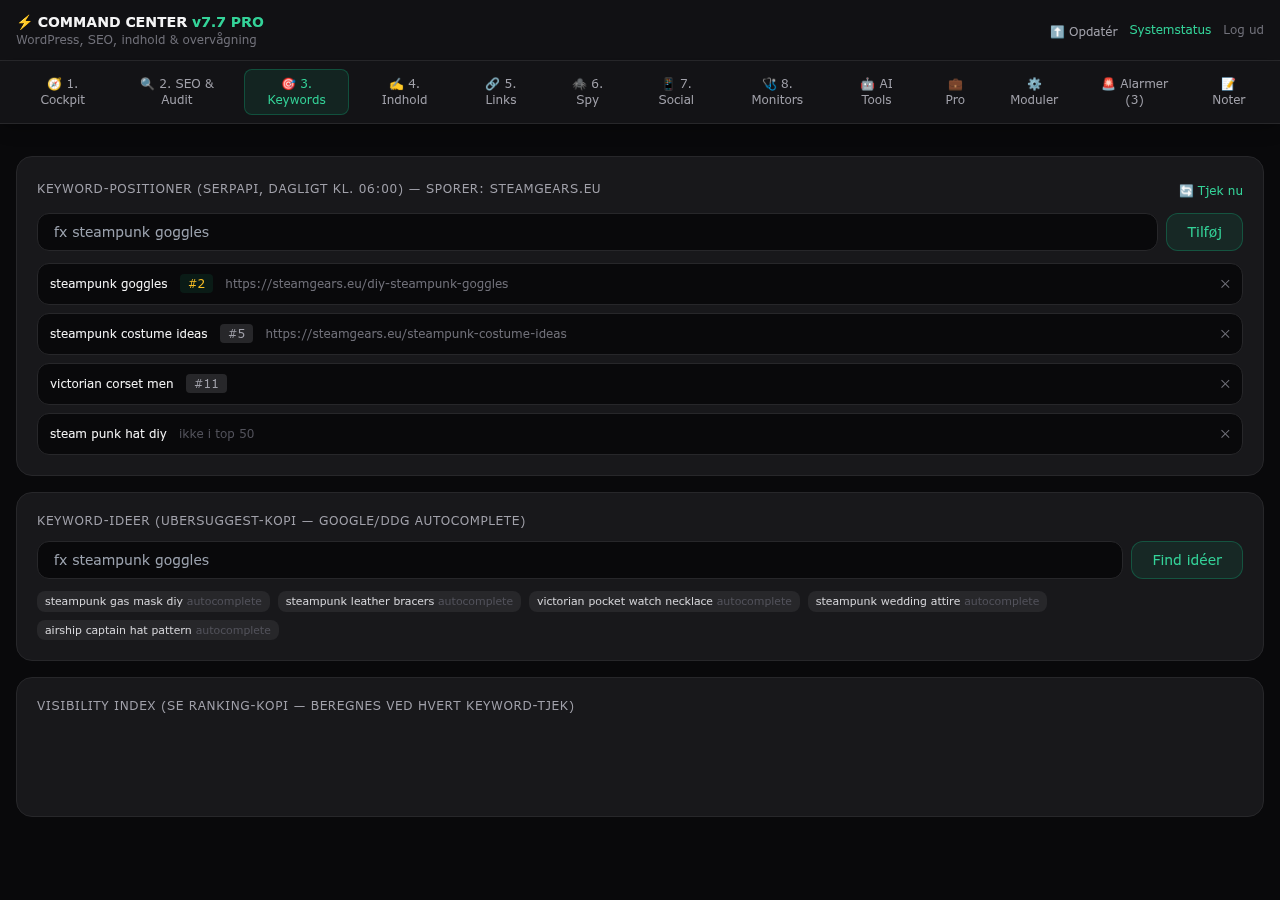
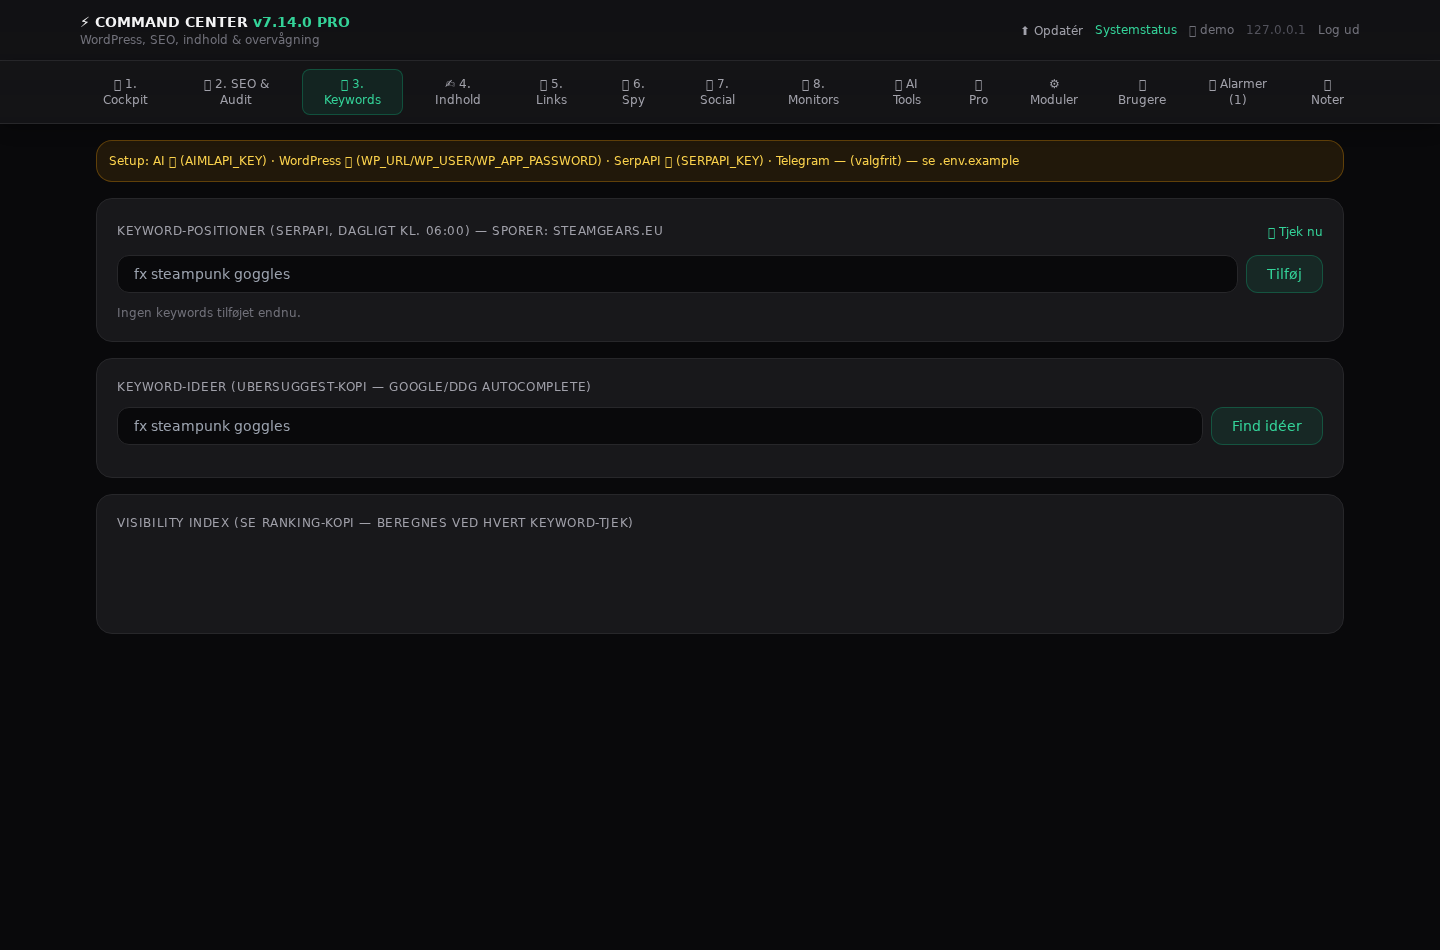
docs: opdater alle screenshots + noter hvorfor headless Chromium crashede
Chromium faldt om paa dashboardet fordi der ikke findes /etc/fonts her:
"FATAL: SkFontMgr_FontConfigInterface.cpp:163 Not implemented" (SIGTRAP).
Det er miljoeet, ikke appen - med FONTCONFIG_FILE pegende paa en fonts.conf
kunne alle 14 faner og login-siden fotograferes, saa docs/img er nu fra den
koerende kode i stedet for v7.8.

Scriptet giver et tip om fontconfig, naar browseren doer paa den maade.

🤖 Generated with Codebuff

diff --git a/scripts/screenshots.py b/scripts/screenshots.py
@@ -175,9 +175,14 @@ def main() -> int:
         print("FEJL: %s" % exc, file=sys.stderr)
         return 1
     except PlaywrightError as exc:
-        print("FEJL: Browseren stoppede under optagelsen: %s" % str(exc).splitlines()[0], file=sys.stderr)
+        detail = str(exc).splitlines()[0]
+        print("FEJL: Browseren stoppede under optagelsen: %s" % detail, file=sys.stderr)
         if written:
             print("%d billede(r) blev skrevet foer fejlen." % len(written), file=sys.stderr)
+        if "has been closed" in detail and not os.environ.get("FONTCONFIG_FILE"):
+            print("Tip: crasher browseren straks paa dashboardet (FATAL: SkFontMgr_FontConfigInterface),"
+                  " mangler der fontconfig. Saet FONTCONFIG_FILE til en fonts.conf med mindst én font.",
+                  file=sys.stderr)
         return 1
 
     print("\n%d billede(r) skrevet til %s" % (len(written), out_dir))

diff --git a/CLAUDE.md b/CLAUDE.md
@@ -151,6 +151,12 @@ kørte grønt på `ed97575`. CI tjekker desuden at alle 17 indlejrede filer i `i
 - Playwright er **ikke** i `requirements.txt` (kun dette script bruger det):
   `pip install playwright && python3 -m playwright install chromium`.
 - Fane-listen i `TABS` skal foelge nav-knapperne i `app/templates/dashboard.html`.
+- Chromium crashede foerst paa dashboardet i denne VM - det er **miljoeet, ikke appen**: der findes
+  intet `/etc/fonts`, saa Skia aborterer med `FATAL: SkFontMgr_FontConfigInterface.cpp:163 Not
+  implemented` (SIGTRAP). Loesning: lav en `fonts.conf` med `<dir>` (DejaVu/Noto) + `<cachedir>` og
+  saet `FONTCONFIG_FILE`/`FONTCONFIG_PATH`. Derefter kan alle 14 faner fotograferes headless.
+- Mangler der en emoji-font i det saet, bliver emoji i UI'et tomme kasser paa billederne. Det er kun
+  kosmetisk - layout og tekst er korrekt.
 
 ### Dokumentation og CI
 - `README.md`, manualen og arkitektur-dokumentet er skrevet om til v7.11; `docs/Command_Center_Install_Script.md`
@@ -210,7 +216,7 @@ springer tjekket over til rene undtagelser.
 - Efter Juno-fjernelsen: ingen GSC-data, og `drift`/`gsc_*`-tabeller kan stadig ligge tomme i en
   eksisterende `center.db` (intet læser eller skriver dem).
 - Systemd-genstartsstien er ikke testet i denne VM (ingen systemd); pidfile-stien er verificeret.
-- `docs/img/`-screenshots er fra v7.8; `python3 scripts/screenshots.py` opdaterer dem (kræver Playwright + Chromium, som ikke er en del af appens requirements).
+- `docs/img/`-screenshots er opdateret med `scripts/screenshots.py` (kræver Playwright + Chromium, som ikke er en del af appens requirements); headless Chromium skal have en `FONTCONFIG_FILE`, se Screenshot-script ovenfor.
 - Opdatering kræver `GITHUB_TOKEN`; et rigtigt tarball-download er ikke afprøvet her.
 
 ## Roadmap (kort — detaljer i `docs/ROADMAP.md`)

diff --git a/README.md b/README.md
@@ -36,8 +36,8 @@ Alt kører på din egen server: dine data, ingen abonnement. Se [docs/ROADMAP.md
 ![Cockpit](docs/img/cc-cockpit.png)
 
 Cockpit med opdaterings-panel og alarmer. Login-siden og alle 14 faner ligger i `docs/img/`
-(`cc-login.png`, `cc-cockpit.png` … `cc-notes.png`); billederne er fra v7.8-UI'et, og
-`python3 scripts/screenshots.py` opdaterer dem til den version du kører — se
+(`cc-login.png`, `cc-cockpit.png` … `cc-notes.png`); billederne er taget med
+`python3 scripts/screenshots.py` mod den kørende app, og samme kommando opdaterer dem — se
 [manualens afsnit om screenshots](docs/Command_Center_Bruger_og_Systemmanual.md#opdater-screenshots).
 
 ## Login & opsætning
@@ -166,4 +166,4 @@ og handoff, `AGENTS.md` er de korte regler for agenter.
 - Dashboardet henter Tailwind, Alpine.js og Chart.js fra CDN (login-siden er helt selvstændig). Uden internetadgang ser dashboardet stadig ud, men uden styling/interaktivitet.
 - Opdatering kræver `GITHUB_TOKEN`; ændringer i `requirements.txt` rapporteres men installeres først ved næste `./run.sh`.
 - `install.sh` indeholder kopier af projektets filer (CI tjekker at de matcher); ret derfor altid kildefilerne og kør regen, ikke installeren.
-- Screenshots i `docs/img/` er fra v7.8-UI'et — kør `python3 scripts/screenshots.py` for at opdatere dem til den kørende version.
+- Screenshots i `docs/img/` er taget med `python3 scripts/screenshots.py` mod v7.13.x-UI'et; kør scriptet igen efter større UI-ændringer.

diff --git a/docs/ROADMAP.md b/docs/ROADMAP.md
@@ -50,7 +50,7 @@ driftsstabilitet før nye features.
 - **2FA (TOTP)** for brugere, som eksponerer dashboardet mod internettet
 - **Docker-healthcheck + Compose-secrets** i stedet for `.env` i containeren
 - **i18n**: UI-tekster er danske og hardcodede i skabelonerne
-- **Screenshot-opdatering** af `docs/img/` (matcher ikke v7.11-UI) — værktøjet er på plads (`scripts/screenshots.py`), der mangler kun en kørsel mod en kørende app
+- **Screenshot-opdatering** af `docs/img/` — ✅ opdateret med `scripts/screenshots.py` mod v7.13.x-UI'et; kør den igen efter større UI-ændringer
 - **install.sh-afvikling**: undgå de indlejrede filkopier (fx udgiv en zip/tarball eller brug GitHub-opdateringen til første install)
 - **Ekstern overvågning**: valgfri heartbeat til Uptime Kuma/healthchecks.io
 - **SERP-udgiftsprognose**: vis estimeret forbrug for resten af måneden baseret på kørende keywords

diff --git a/docs/Command_Center_Bruger_og_Systemmanual.md b/docs/Command_Center_Bruger_og_Systemmanual.md
@@ -4,7 +4,7 @@ Selv-hostet SEO- og drifts-center til steamgears.eu (FastAPI + SQLite). Alt kør
 
 ![Cockpit](img/cc-cockpit.png)
 
-> Screenshots i `docs/img/` er fra v7.8-UI'et. Funktionaliteten er den samme, men login er nu brugerbaseret, og Cockpit har fået et opdaterings-panel. Vil du have billederne opdateret til den version du kører, så kør `python3 scripts/screenshots.py` mod appen (se "Opdater screenshots" nedenfor).
+> Screenshots i `docs/img/` er taget med `scripts/screenshots.py` mod den kørende version (v7.13.x-UI'et). Kør scriptet igen, når UI'et ændrer sig (se "Opdater screenshots" nedenfor).
 
 ---
 
